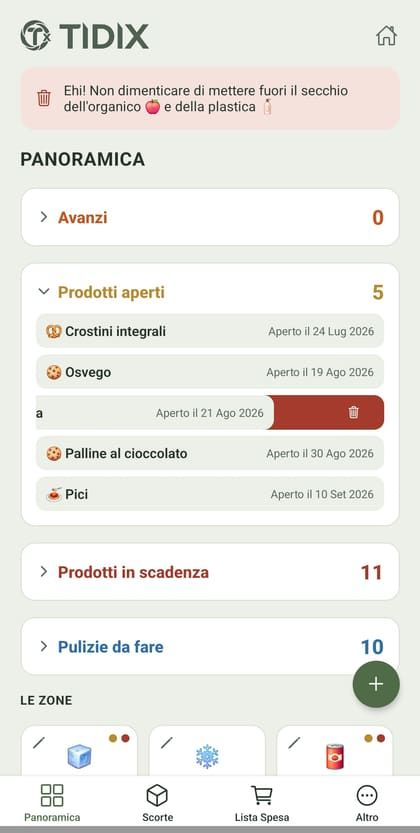
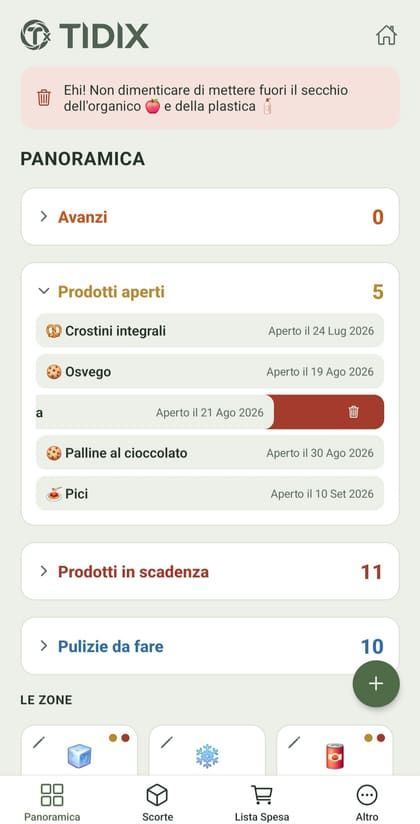
Guida: aggiorna tutti gli screenshot con nuove catture piu' pulite (#226)
Sostituiti gli screenshot di Panoramica, Aggiungi al volo, Scorte, Lista
della spesa, Acquistati, Filtri, Aggiungi prodotto e Scansione prodotto
con nuove catture piu' nitide e rappresentative dei singoli gesti.

La slide "Gesti rapidi" (swipe) ora mostra due screenshot impilati, come
gia' fatto per "Aggiungi prodotto": uno per lo swipe a sinistra (elimina)
e uno per quello a destra (azione che varia per schermata), coerente con
il testo della slide che descrive entrambi i gesti.

Claude-Session: https://claude.ai/code/session_0124KDiTTkTm4SeJm2jJDzTH

diff --git a/src/components/AppGuideModal.tsx b/src/components/AppGuideModal.tsx
@@ -74,6 +74,8 @@ const GUIDE_SLIDES: GuideSlideDef[] = [
     bodyKey: 'household.guide.swipe.body',
     imageLight: require('../../assets/guide/swipe-light.jpg'),
     imageDark: require('../../assets/guide/swipe-dark.jpg'),
+    imageLight2: require('../../assets/guide/swipe-light-2.jpg'),
+    imageDark2: require('../../assets/guide/swipe-dark-2.jpg'),
   },
   {
     key: 'stock',
